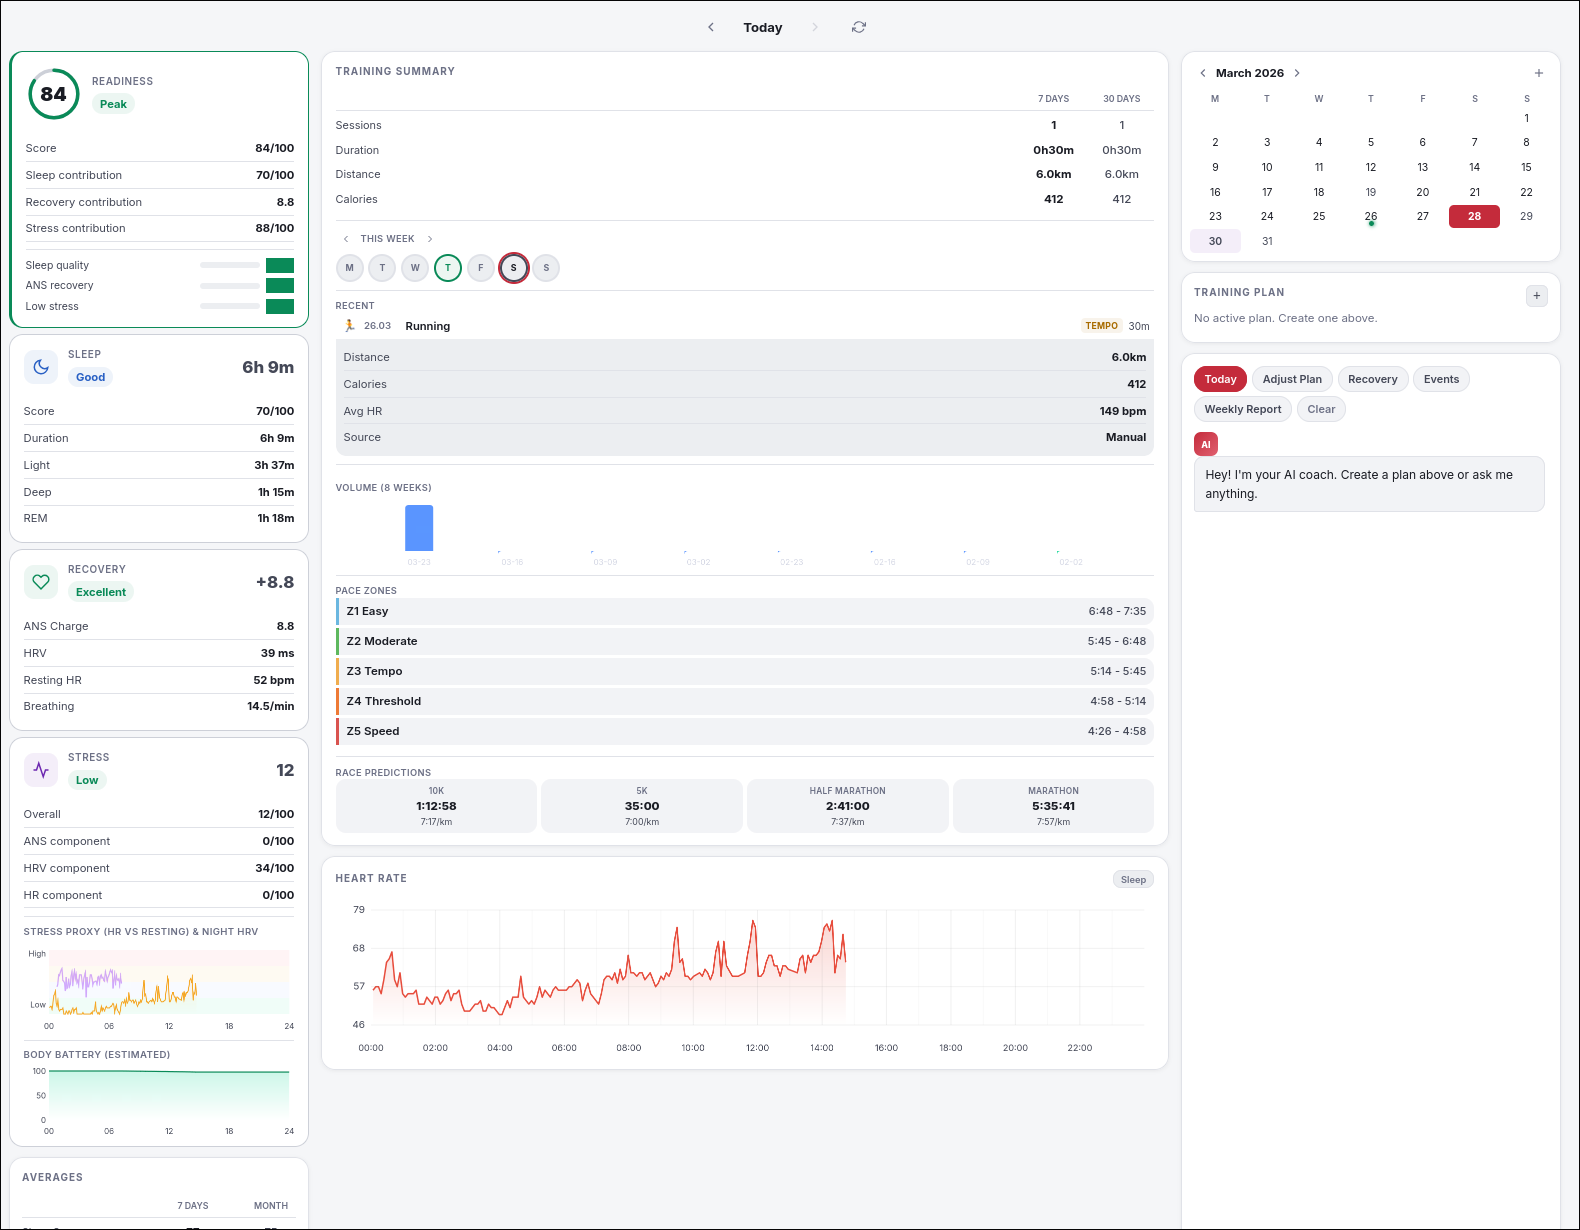
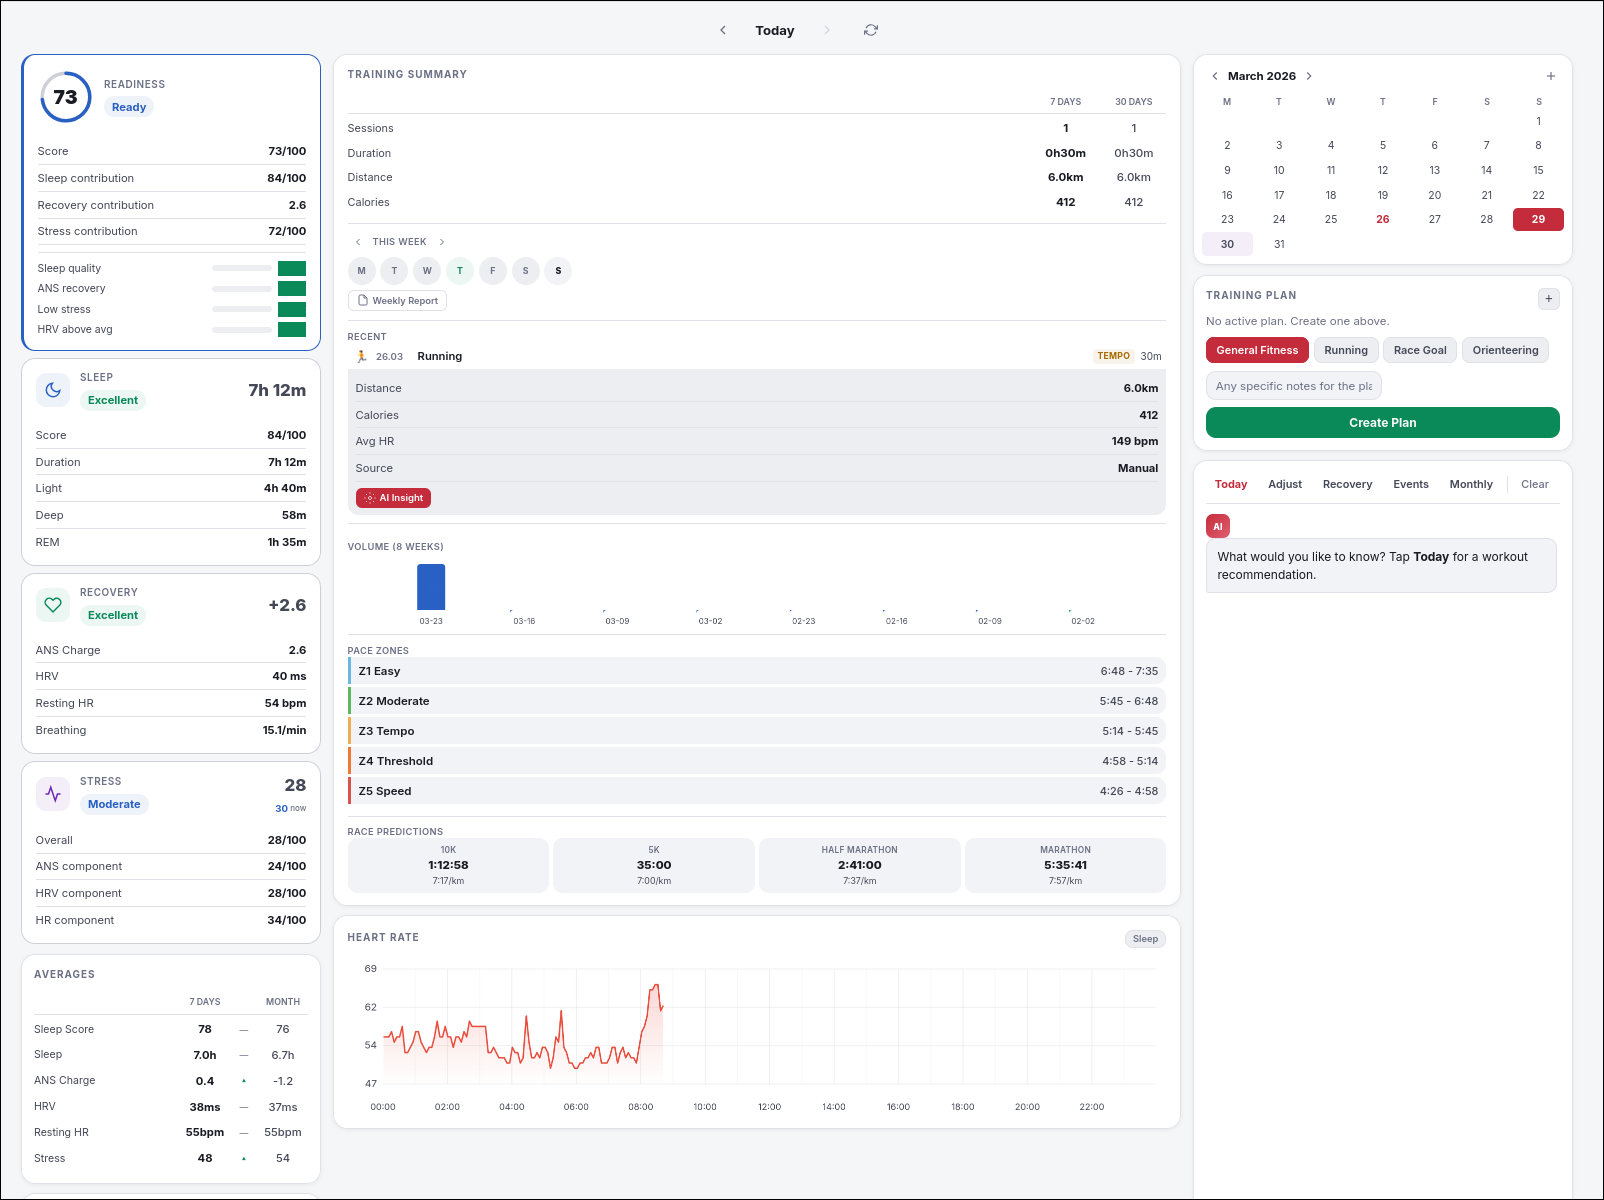
Update screenshots and README with current features
- 4 new screenshots: light dashboard, detail view, dark dashboard, exercise detail
- README rewritten to reflect all current features
- Added AI model routing table
- Updated setup instructions

diff --git a/README.md b/README.md
@@ -1,73 +1,81 @@
 # Polar AI Coach
 
-AI-powered training coach that connects to your Polar watch data. Get personalized daily training advice, recovery insights, stress monitoring, and adaptive training plans — all from your browser.
+AI-powered training coach that connects to your Polar watch data. Personalized daily training advice, recovery insights, stress monitoring, and adaptive training plans — all from your browser.
 
-![Landing Page](screenshots/landing.png)
-![Dashboard Dark](screenshots/dashboard-dark.png)
 ![Dashboard Light](screenshots/dashboard-light.png)
 ![Dashboard Detail](screenshots/dashboard-detail-light.png)
+![Dashboard Dark](screenshots/dashboard-dark.png)
+![Exercise Detail](screenshots/detail-exercise.png)
 
 ## Features
 
 **Recovery & Readiness**
-- Readiness score (composite of sleep, recovery, stress) with contributor breakdown
+- Readiness score — composite of sleep, recovery, and stress with contributor breakdown
 - Sleep quality analysis with stage breakdown (light/deep/REM)
 - Nightly Recharge tracking (ANS charge, HRV, resting HR, breathing rate)
-- Derived stress score from HRV and HR baselines
+- Stress score derived from HRV and HR baselines, with real-time estimate
 - Click-to-expand score cards with detailed metrics
 
-**Heart Rate**
-- 24-hour continuous HR chart with proper time axis
-- Interactive hover with crosshair and tooltip
-- Sleep zone overlay toggle
-
 **Training**
-- Manual exercise logging (running, strength, etc.) with distance tracking
-- Auto-classified training benefit tags (Base Building, Tempo, HIIT, Strength, Recovery, etc.)
-- Weekly and monthly training summaries (sessions, duration, distance, calories)
+- Manual exercise logging with distance, calories, HR, and sport type
+- Auto-classified training benefit tags (Base Building, Tempo, HIIT, Strength, Recovery)
+- Weekly and monthly training summaries with navigable week view
 - 8-week progressive volume chart
-- Pace zones calculated from MAS (5 zones: Easy → Speed)
-- Race predictions (5K, 10K, Half Marathon, Marathon) based on VO2max
-- Mini calendar with session dots and plan indicators
-- Training insights (volume trends, rest day reminders, cross-training suggestions)
+- Running pace zones calculated from MAS (5 zones: Easy to Speed)
+- Race time predictions (5K, 10K, Half Marathon, Marathon) from VO2max
+- AI Insight button on each exercise for per-session analysis
+
+**Heart Rate**
+- 24-hour continuous HR chart on a proper time axis (0-24h)
+- Interactive hover with crosshair tooltip
+- Sleep zone overlay toggle
+- Responsive to theme changes
+
+**Calendar & Events**
+- Monthly calendar with exercise days highlighted (green in dark, red in light)
+- Orienteering event days (Helsingin Suunnistajat Iltarastit) with purple fill
+- Planned session indicators (small orange dots)
+- Click any day to see event details (location, address)
 
 **AI Coach (via OpenRouter)**
-- Daily personalized advice based on recovery, weather, and training load
+- Smart model routing: GPT-5.4 Nano for quick tasks, Claude Sonnet 4.6 for deep analysis
+- Daily personalized advice factoring recovery, weather, training load, and athlete profile
 - Adaptive training plans (general fitness, running, race goals, orienteering)
-- Plans adjust daily based on your actual recovery data
-- Weekly AI-generated training reports
-- Orienteering event integration (Helsingin Suunnistajat Iltarastit calendar)
-- Weather-aware recommendations (indoor/outdoor based on conditions)
-- Full athlete profile with HR zones, VO2max, thresholds from Polar Flow
+- Plans adjust daily based on actual recovery data
+- Weekly reports (cheap model) and monthly deep analysis (premium model)
+- Per-session AI insight with one click
+- Orienteering event integration (iltarastit.fi calendar)
+- Weather-aware recommendations via wttr.in
+- Conservative coaching: matches intensity to actual training volume, not just recovery
 
-**Journal**
-- Daily mood tracking (1–5 scale)
-- Fatigue level logging
-- Nutrition status (good/ok/poor)
-- Free-text notes
+**Athlete Profile**
+- Full physiology data: VO2max, max HR, resting HR, aerobic/anaerobic thresholds, MAS
+- HR zones (5 zones from Polar Flow settings)
+- Work schedule, lifestyle, equipment, goals, injuries
+- Switchable AI model (6 options from OpenRouter)
 
 **Other**
-- Dark/light theme with system preference detection
-- Installable as PWA (Progressive Web App)
+- Dark/light theme following system preference
+- Installable as PWA
 - Instant client-side date navigation (no page reloads)
 - 7-day and monthly trend analysis with direction indicators
-- Editable athlete profile for personalized coaching
 - Weather display with manual location override
+- Server-side sessions (no cookie size limits)
 
 ## Setup
 
 ### 1. Polar AccessLink API
 
 1. Create an account at [Polar Flow](https://flow.polar.com)
-2. Register as a developer at [admin.polaraccesslink.com](https://admin.polaraccesslink.com)
-3. Create a new client with callback URL: `http://localhost:5000/callback`
+2. Register at [admin.polaraccesslink.com](https://admin.polaraccesslink.com)
+3. Create a client with callback URL: `http://localhost:5000/callback`
 4. Note your Client ID and Client Secret
 
 ### 2. OpenRouter API (for AI features)
 
 1. Sign up at [openrouter.ai](https://openrouter.ai)
 2. Create an API key
-3. Add credits (Gemini 2.0 Flash is very affordable)
+3. Add credits (GPT-5.4 Nano costs ~$0.15/month for casual use)
 
 ### 3. Install & Run
 
@@ -78,19 +86,30 @@ source venv/bin/activate
 pip install -r requirements.txt
 cp .env.example .env
 # Edit .env with your API keys
-python app.py
+./run.sh
 ```
 
-Open http://localhost:5000 and click "Connect with Polar Flow" to authorize.
+Opens http://localhost:5000 — click "Connect with Polar Flow" to authorize.
+
+## AI Model Routing
+
+| Task | Model | Cost |
+|------|-------|------|
+| Session insights | GPT-5.4 Nano | ~$0.001/request |
+| Weekly reports | GPT-5.4 Nano | ~$0.001/request |
+| Daily advice (AI chat) | Claude Sonnet 4.6 | ~$0.012/request |
+| Monthly reports | Claude Sonnet 4.6 | ~$0.012/request |
+| Training plans | Profile-selected | Varies |
 
 ## Tech Stack
 
 - **Backend:** Python / Flask
 - **Frontend:** Vanilla JS, HTML Canvas charts
-- **AI:** OpenRouter (Gemini 2.0 Flash) via OpenAI-compatible API
+- **AI:** OpenRouter (GPT-5.4 Nano + Claude Sonnet 4.6)
 - **Data:** Polar AccessLink API, local JSON storage
 - **Weather:** wttr.in (no API key needed)
-- **Orienteering:** iltarastit.fi schedule scraping
+- **Events:** iltarastit.fi schedule scraping
+- **Sessions:** Server-side via cachelib
 
 ## Project Structure
 
@@ -98,23 +117,20 @@ Open http://localhost:5000 and click "Connect with Polar Flow" to authorize.
 polar-coach/
 ├── app.py              # Flask routes, session management, API endpoints
 ├── polar_client.py     # Polar AccessLink API client (OAuth2, data fetching)
-├── coach.py            # Scoring engine (readiness, stress, insights, summaries)
-├── ai_coach.py         # AI integration (daily advice, training plans, weather)
-├── local_data.py       # Local storage (exercises, profile, plans, events)
-├── templates/          # Jinja2 HTML templates
+├── coach.py            # Scoring engine (readiness, stress, insights, pace zones, race predictions)
+├── ai_coach.py         # AI integration (model routing, prompts, weather)
+├── local_data.py       # Local storage (exercises, profile, plans, events, journal)
+├── run.sh              # Launch script
+├── templates/
 │   ├── base.html       # Layout, navbar, theme toggle
 │   ├── index.html      # Landing page
-│   ├── dashboard.html  # Main dashboard (3-column layout)
+│   ├── dashboard.html  # Main 3-column dashboard
 │   ├── profile.html    # Athlete profile editor
 │   └── session.html    # Exercise detail view
 ├── static/
-│   ├── style.css       # Full CSS (dark/light themes)
+│   ├── style.css       # Dark/light themes
 │   └── manifest.json   # PWA manifest
 ├── data/               # Local data (gitignored)
-│   ├── exercises.json
-│   ├── profile.json
-│   ├── training_plan.json
-│   └── sessions/
 ├── .env.example
 └── requirements.txt
 ```
@@ -122,10 +138,10 @@ polar-coach/
 ## Data Privacy
 
 - All data stays local — no external storage, no telemetry
-- API keys stored in `.env` (gitignored)
-- Personal data in `data/` directory (gitignored)
-- Polar OAuth tokens stored in server-side sessions (not cookies)
-- AI queries go through OpenRouter — review their privacy policy
+- API keys in `.env` (gitignored)
+- Personal data in `data/` (gitignored)
+- Polar OAuth tokens in server-side sessions (not cookies)
+- AI queries go through OpenRouter — review their [privacy policy](https://openrouter.ai/privacy)
 
 ## License
 
